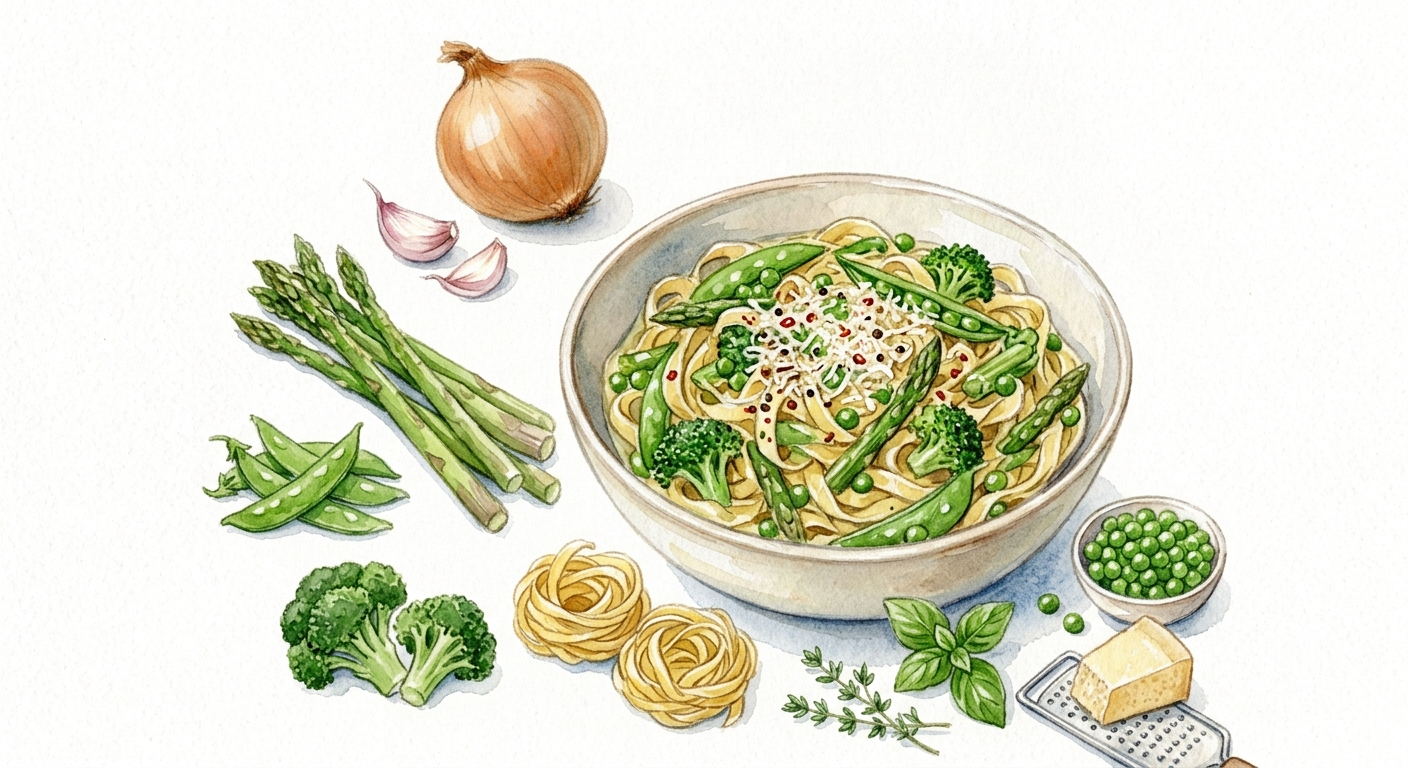
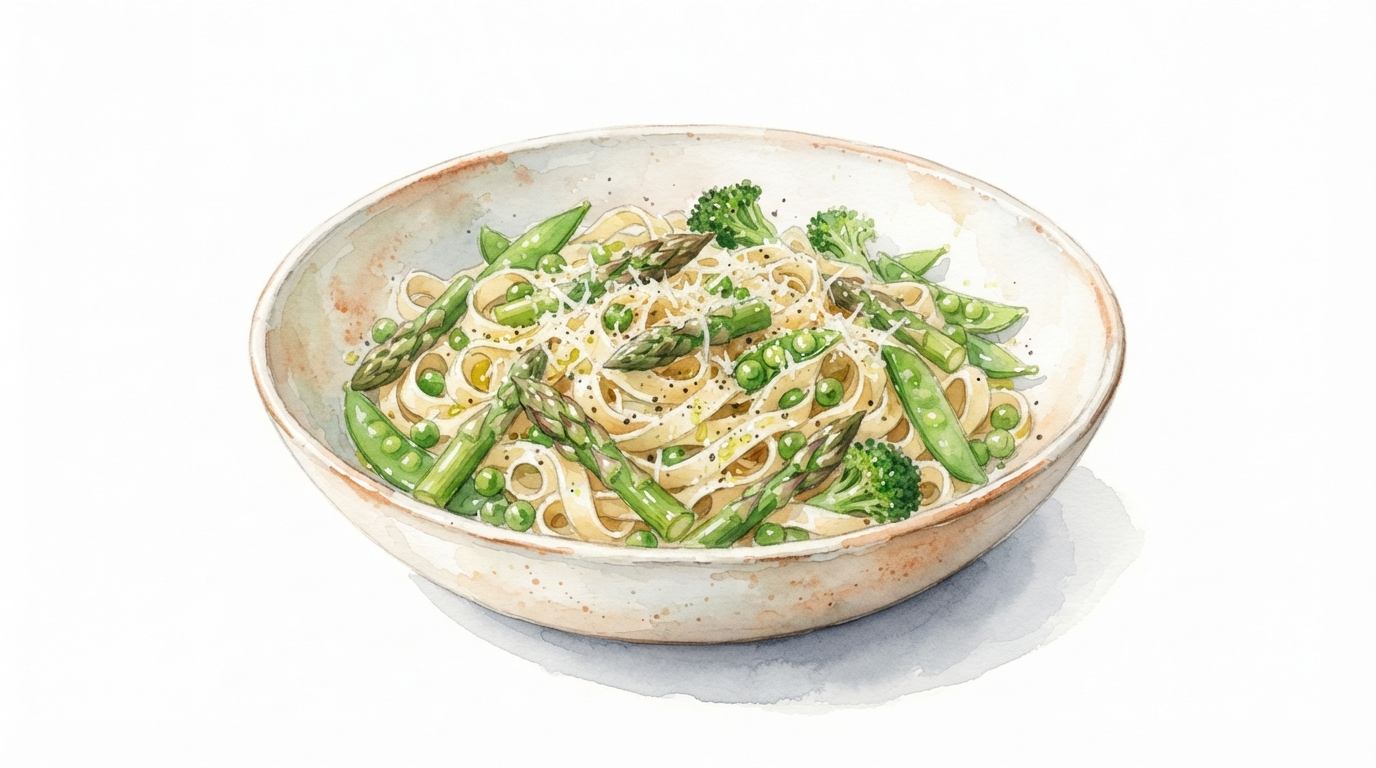
Add margin ingredients image to pasta primavera, update hero
Add a new watercolor ingredients illustration in the margin next to the
intro, and refresh the finished-dish hero illustration.

diff --git a/recipes/pasta-primavera.tex b/recipes/pasta-primavera.tex
@@ -9,6 +9,8 @@
 
 \meta{40 minuten}
 
+\marginimage{images/pasta-primavera-ingredienten}
+
 \lettrine{D}{eze} pastaprimavera zit vol lentegroen: groene asperges,
 peultjes, erwtjes en broccoli geven kleur en frisheid. De saus ontstaat
 vanzelf, uit gesnipperde ui en het kookvocht van de pasta, dus room is niet
